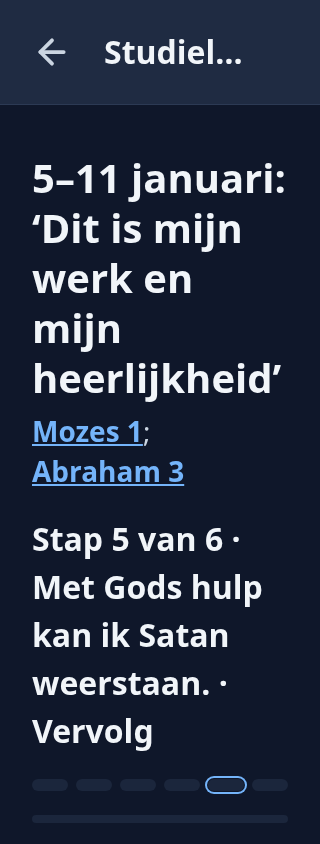
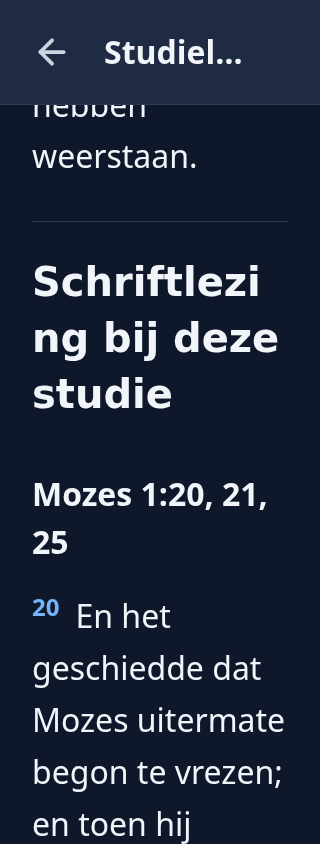
Laat aanvullende CFM-leeskoppen afbreken bij brede mobiele fonts

Changed region(s): [[0.0938, 0.1232, 0.9062, 1.0], [0.6875, 0.5545, 0.8438, 0.6469], [0.0938, 0.955, 0.2188, 1.0]]

diff --git a/src/components/study/StudyReader.tsx b/src/components/study/StudyReader.tsx
@@ -616,7 +616,7 @@ function ReaderVisit({
         </BlockedReferencesContext.Provider>
         </ReferenceActionsContext.Provider>
         {!legacy && Boolean(data.scriptureReadingSteps?.some(index=>!currentStep || index===currentStep.index)) && (
-          <section data-study-scripture-readings className="min-w-0 space-y-6 border-t border-vs-line pt-4 text-base text-vs-fg">
+          <section data-study-scripture-readings className="min-w-0 break-words space-y-6 border-t border-vs-line pt-4 text-base text-vs-fg">
             <h2 className="text-xl font-extrabold">{t("cfmExercises.scriptureReading")}</h2>
             {(data.scriptureReadings??[]).filter(reading=>!currentStep || reading.stepIndex===currentStep.index).map((reading,index,readings)=>(
               <section key={`${reading.stepIndex}:${reading.bookKey}:${reading.chapter}`} data-study-scripture-reading={reading.stepIndex} className="min-w-0 space-y-3">

diff --git a/docs/CFM-PILOT-2026-02.md b/docs/CFM-PILOT-2026-02.md
@@ -129,6 +129,13 @@ voltooid en afgebroken; voor de bevestigde variant wordt de opgeslagen sessie
 gecontroleerd vóór herladen. Een willekeurige al zichtbare alert geldt niet als
 bewijs van serveropslag. De browsercontrole bewaakt dat screenshots inhoud tonen.
 
+De eerste CI-proef vond horizontale overflow in de aanvullende lezing. Een bredere
+fallbackfont maakt “Schriftlezing” bij 200% tekst circa 286px breed bij slechts
+256px inhoudsruimte op 320px. De aanvullende sectie gebruikt nu bestaande
+`break-words`-opmaak. De 320px-proef forceert hiervoor DejaVu Sans op de kop en
+behoudt de strikte scrollbreedtecontrole; foutmeldingen noemen afmetingen en
+uitstekende elementen. Er is geen tekst verkleind of controle versoepeld.
+
 Reproduceren na `npm run build`:
 
 ```bash
